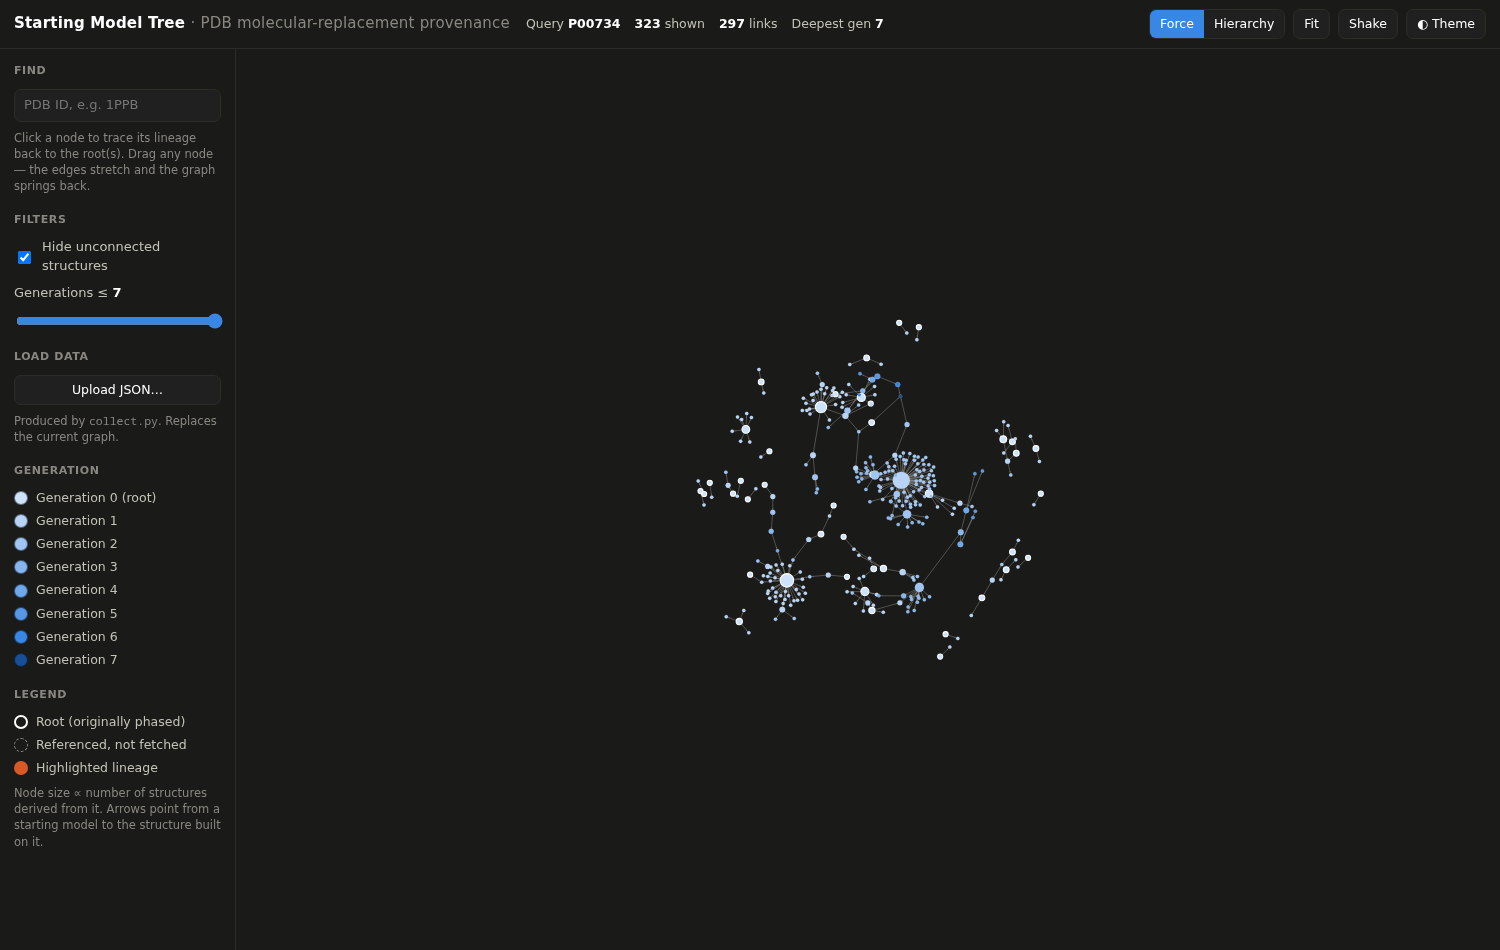
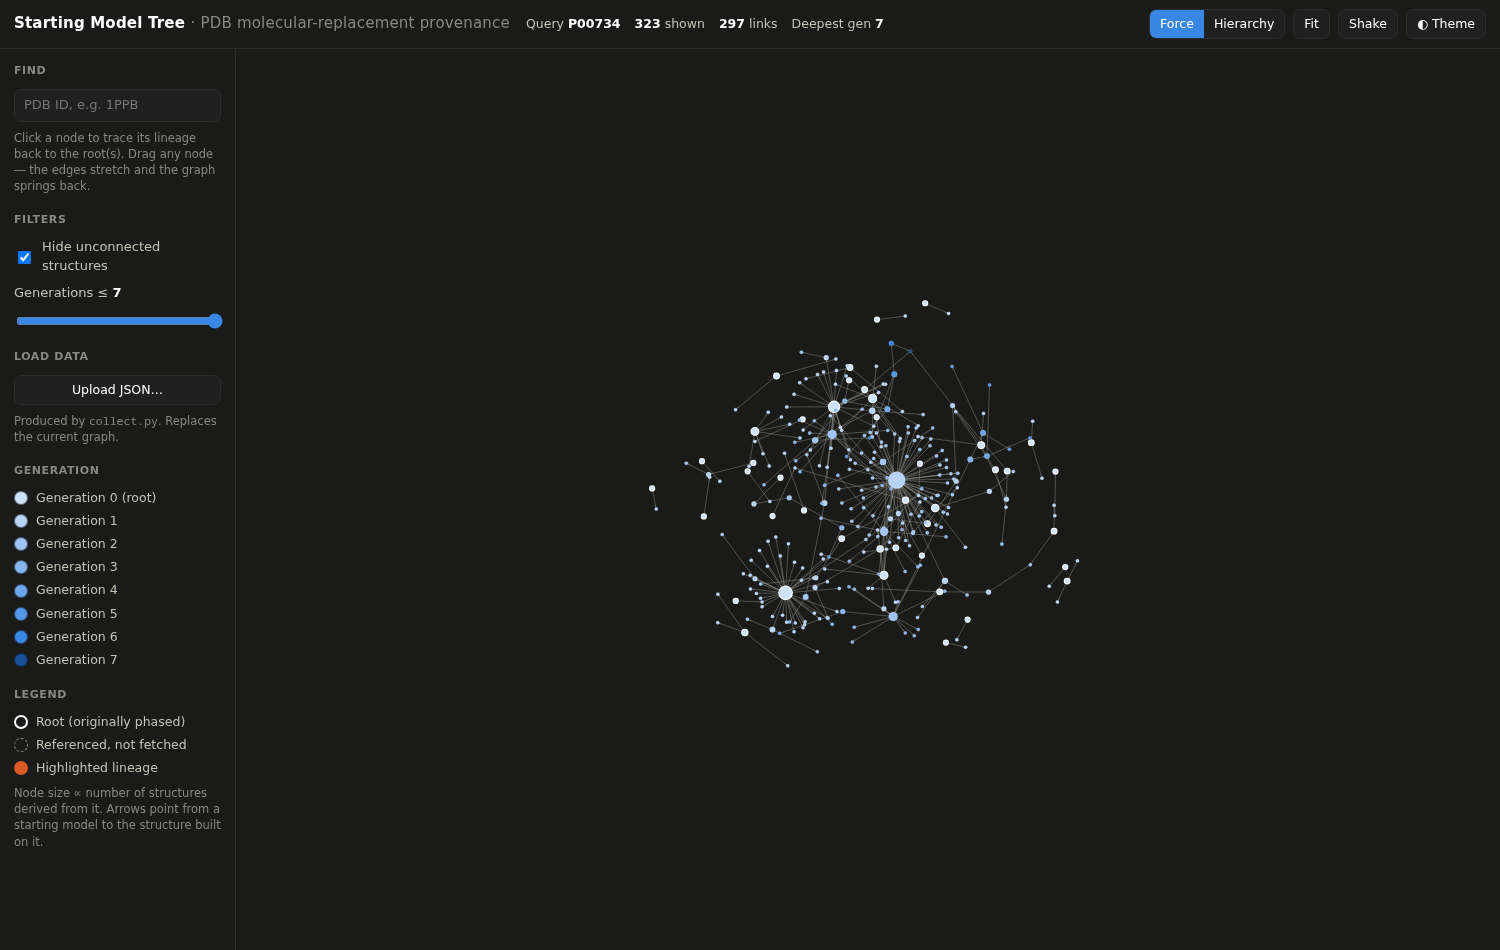
Add collision force + retune layout to fix overlap and over-tightness
The gravity-only compaction crushed dense hubs into overlapping nodes.
Add a grid-based collision force (force-graph bundles no forceCollide) that
nudges overlapping pairs apart by velocity, mass-weighted by radius. Retune:
moderate charge for sibling spacing, springy links to preserve hub structure,
light gravity to keep components gathered. Distinct, non-overlapping,
compact-but-readable layout.

Claude-Session: https://claude.ai/code/session_016DwnPJMmo8ogqSZxW7tp2E

Changed region(s): [[0.46, 0.3358, 0.7053, 0.6716], [0.6133, 0.6716, 0.644, 0.7021]]

diff --git a/smtree.html b/smtree.html
@@ -276,6 +276,55 @@ function centerGravity(strength) {
   return force;
 }
 
+// A custom collision force (force-graph doesn't bundle d3's forceCollide).
+// Treats each node as a circle of radiusOf(node)+padding and nudges overlapping
+// pairs apart via their velocities (mass-weighted by radius, like d3-force). A
+// uniform-grid broad phase keeps it ~O(n) so it scales to thousands of nodes.
+function collide(radiusOf, padding, strength, iterations) {
+  let nodes = [];
+  let radii = [];
+  function force() {
+    const n = nodes.length;
+    if (!n) return;
+    let maxR = 1;
+    for (let i = 0; i < n; i++) { radii[i] = radiusOf(nodes[i]) + padding; if (radii[i] > maxR) maxR = radii[i]; }
+    const cell = maxR * 2;
+    for (let it = 0; it < iterations; it++) {
+      const grid = new Map();
+      for (let i = 0; i < n; i++) {
+        const k = Math.floor(nodes[i].x / cell) + ':' + Math.floor(nodes[i].y / cell);
+        let b = grid.get(k); if (!b) { b = []; grid.set(k, b); }
+        b.push(i);
+      }
+      for (let i = 0; i < n; i++) {
+        const a = nodes[i];
+        const gx = Math.floor(a.x / cell), gy = Math.floor(a.y / cell);
+        for (let dx = -1; dx <= 1; dx++) for (let dy = -1; dy <= 1; dy++) {
+          const b = grid.get((gx + dx) + ':' + (gy + dy));
+          if (!b) continue;
+          for (let m = 0; m < b.length; m++) {
+            const j = b[m]; if (j <= i) continue;
+            const c = nodes[j];
+            const rr = radii[i] + radii[j];
+            let X = (a.x + a.vx) - (c.x + c.vx);
+            let Y = (a.y + a.vy) - (c.y + c.vy);
+            let d2 = X * X + Y * Y;
+            if (d2 >= rr * rr) continue;
+            if (d2 === 0) { a.vx += (Math.random() - 0.5); a.vy += (Math.random() - 0.5); continue; }
+            const d = Math.sqrt(d2);
+            const l = (rr - d) / d * strength;
+            const ratio = radii[j] * radii[j] / (radii[i] * radii[i] + radii[j] * radii[j]);
+            a.vx += X * l * ratio; a.vy += Y * l * ratio;
+            c.vx -= X * l * (1 - ratio); c.vy -= Y * l * (1 - ratio);
+          }
+        }
+      }
+    }
+  }
+  force.initialize = nds => { nodes = nds; radii = new Array(nds.length); };
+  return force;
+}
+
 function refreshTheme() {
   const dark = isDark();
   COL.ink = cssVar('--ink');
@@ -463,7 +512,7 @@ function initGraph() {
     .backgroundColor(COL.surface)
     .nodeRelSize(4)
     .nodeId('id')
-    .cooldownTicks(120)
+    .cooldownTicks(180)
     .dagLevelDistance(64)
     .linkDirectionalArrowLength(3.2)
     .linkDirectionalArrowRelPos(1)
@@ -505,12 +554,14 @@ function initGraph() {
     .onNodeDrag(() => fg.resumeAnimation())              // keep sim live while dragging
     .onNodeDragEnd(n => { n.fx = undefined; n.fy = undefined; relayout(); })  // spring back
     .onEngineStop(() => { if (pendingFit) { pendingFit = false; fg.zoomToFit(500, 45); } });
-  // Compact the layout: cap long-range repulsion so separate components don't
-  // fling to the edges, shorten links, and add a gentle pull toward centre.
-  fg.d3Force('charge').strength(-24).distanceMax(200);
-  fg.d3Force('link').distance(22).strength(1);
-  fg.d3Force('gravity', centerGravity(0.06));
-  if (fg.d3VelocityDecay) fg.d3VelocityDecay(0.3);
+  // Layout heuristic: a collision force guarantees no overlap; medium-range
+  // charge (capped so separate components don't fling to the edges) does the
+  // spacing; a light gravity keeps everything gathered near the centre.
+  fg.d3Force('charge').strength(-48).distanceMax(330);
+  fg.d3Force('link').distance(30).strength(0.85);
+  fg.d3Force('gravity', centerGravity(0.03));
+  fg.d3Force('collide', collide(nodeRadius, 2.5, 1.0, 2));
+  if (fg.d3VelocityDecay) fg.d3VelocityDecay(0.4);
 }
 
 // ---- wiring --------------------------------------------------------------

diff --git a/smtree.template.html b/smtree.template.html
@@ -271,6 +271,55 @@ function centerGravity(strength) {
   return force;
 }
 
+// A custom collision force (force-graph doesn't bundle d3's forceCollide).
+// Treats each node as a circle of radiusOf(node)+padding and nudges overlapping
+// pairs apart via their velocities (mass-weighted by radius, like d3-force). A
+// uniform-grid broad phase keeps it ~O(n) so it scales to thousands of nodes.
+function collide(radiusOf, padding, strength, iterations) {
+  let nodes = [];
+  let radii = [];
+  function force() {
+    const n = nodes.length;
+    if (!n) return;
+    let maxR = 1;
+    for (let i = 0; i < n; i++) { radii[i] = radiusOf(nodes[i]) + padding; if (radii[i] > maxR) maxR = radii[i]; }
+    const cell = maxR * 2;
+    for (let it = 0; it < iterations; it++) {
+      const grid = new Map();
+      for (let i = 0; i < n; i++) {
+        const k = Math.floor(nodes[i].x / cell) + ':' + Math.floor(nodes[i].y / cell);
+        let b = grid.get(k); if (!b) { b = []; grid.set(k, b); }
+        b.push(i);
+      }
+      for (let i = 0; i < n; i++) {
+        const a = nodes[i];
+        const gx = Math.floor(a.x / cell), gy = Math.floor(a.y / cell);
+        for (let dx = -1; dx <= 1; dx++) for (let dy = -1; dy <= 1; dy++) {
+          const b = grid.get((gx + dx) + ':' + (gy + dy));
+          if (!b) continue;
+          for (let m = 0; m < b.length; m++) {
+            const j = b[m]; if (j <= i) continue;
+            const c = nodes[j];
+            const rr = radii[i] + radii[j];
+            let X = (a.x + a.vx) - (c.x + c.vx);
+            let Y = (a.y + a.vy) - (c.y + c.vy);
+            let d2 = X * X + Y * Y;
+            if (d2 >= rr * rr) continue;
+            if (d2 === 0) { a.vx += (Math.random() - 0.5); a.vy += (Math.random() - 0.5); continue; }
+            const d = Math.sqrt(d2);
+            const l = (rr - d) / d * strength;
+            const ratio = radii[j] * radii[j] / (radii[i] * radii[i] + radii[j] * radii[j]);
+            a.vx += X * l * ratio; a.vy += Y * l * ratio;
+            c.vx -= X * l * (1 - ratio); c.vy -= Y * l * (1 - ratio);
+          }
+        }
+      }
+    }
+  }
+  force.initialize = nds => { nodes = nds; radii = new Array(nds.length); };
+  return force;
+}
+
 function refreshTheme() {
   const dark = isDark();
   COL.ink = cssVar('--ink');
@@ -458,7 +507,7 @@ function initGraph() {
     .backgroundColor(COL.surface)
     .nodeRelSize(4)
     .nodeId('id')
-    .cooldownTicks(120)
+    .cooldownTicks(180)
     .dagLevelDistance(64)
     .linkDirectionalArrowLength(3.2)
     .linkDirectionalArrowRelPos(1)
@@ -500,12 +549,14 @@ function initGraph() {
     .onNodeDrag(() => fg.resumeAnimation())              // keep sim live while dragging
     .onNodeDragEnd(n => { n.fx = undefined; n.fy = undefined; relayout(); })  // spring back
     .onEngineStop(() => { if (pendingFit) { pendingFit = false; fg.zoomToFit(500, 45); } });
-  // Compact the layout: cap long-range repulsion so separate components don't
-  // fling to the edges, shorten links, and add a gentle pull toward centre.
-  fg.d3Force('charge').strength(-24).distanceMax(200);
-  fg.d3Force('link').distance(22).strength(1);
-  fg.d3Force('gravity', centerGravity(0.06));
-  if (fg.d3VelocityDecay) fg.d3VelocityDecay(0.3);
+  // Layout heuristic: a collision force guarantees no overlap; medium-range
+  // charge (capped so separate components don't fling to the edges) does the
+  // spacing; a light gravity keeps everything gathered near the centre.
+  fg.d3Force('charge').strength(-48).distanceMax(330);
+  fg.d3Force('link').distance(30).strength(0.85);
+  fg.d3Force('gravity', centerGravity(0.03));
+  fg.d3Force('collide', collide(nodeRadius, 2.5, 1.0, 2));
+  if (fg.d3VelocityDecay) fg.d3VelocityDecay(0.4);
 }
 
 // ---- wiring --------------------------------------------------------------
